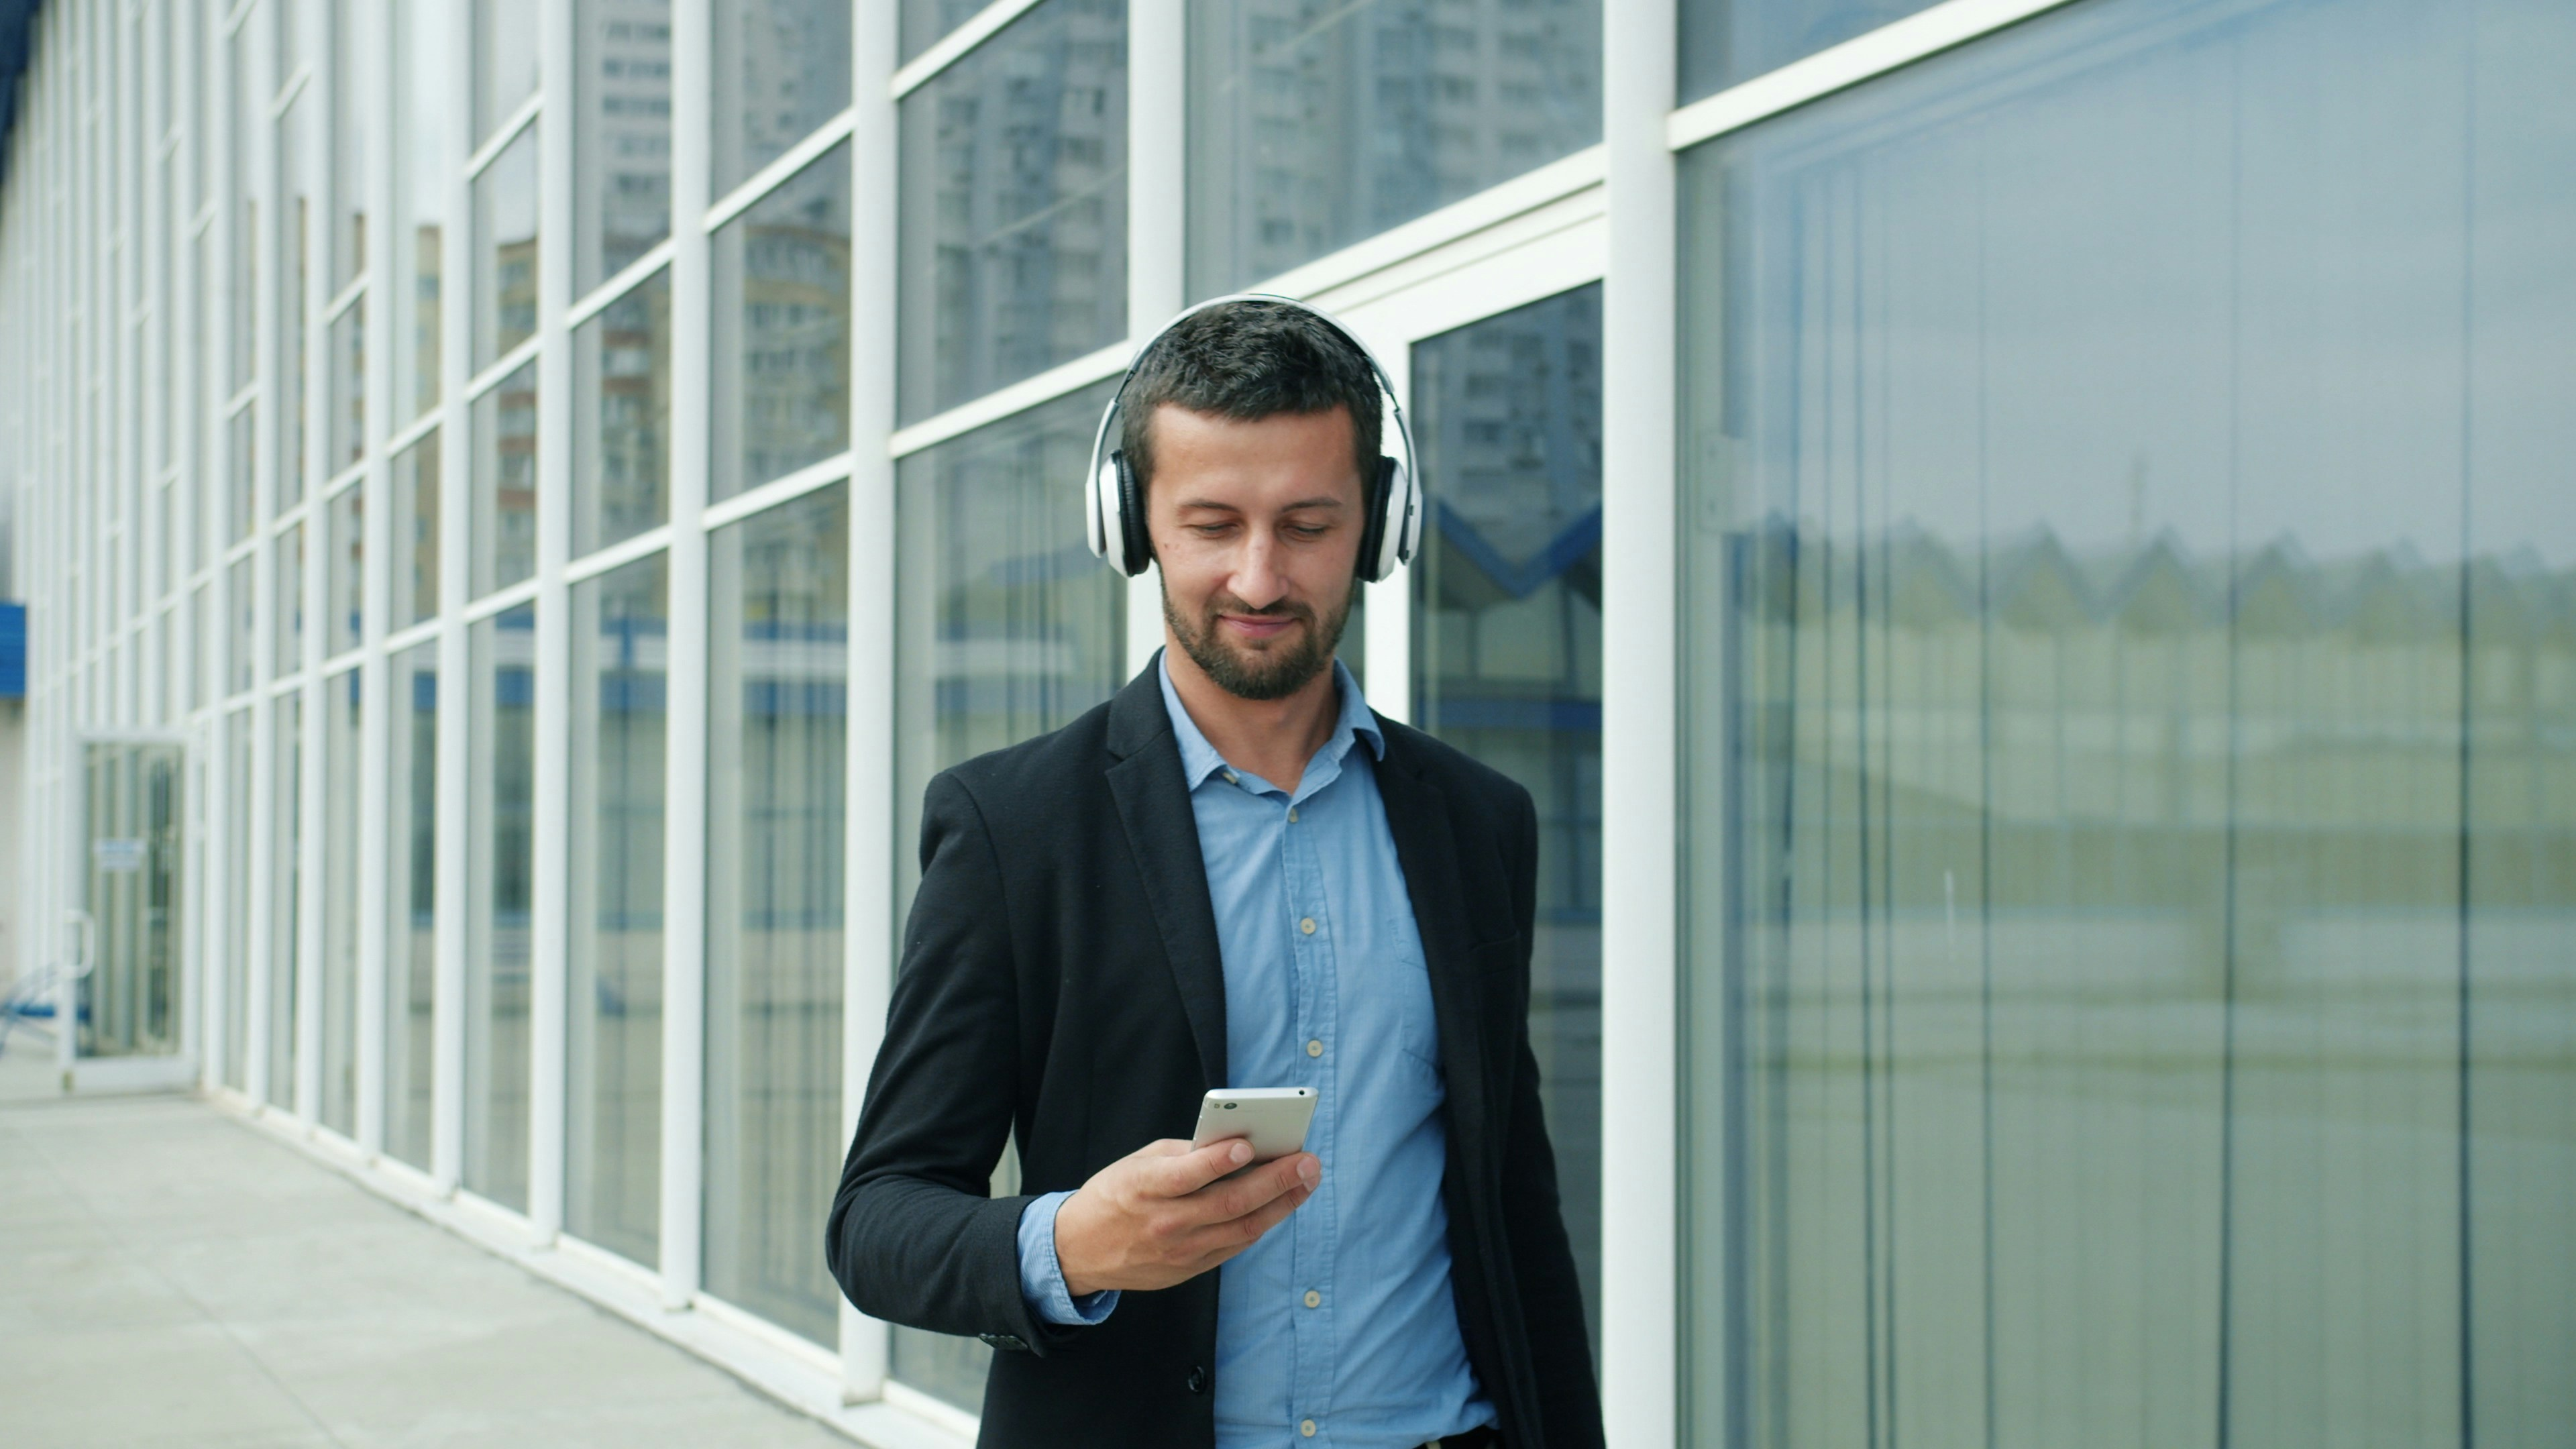
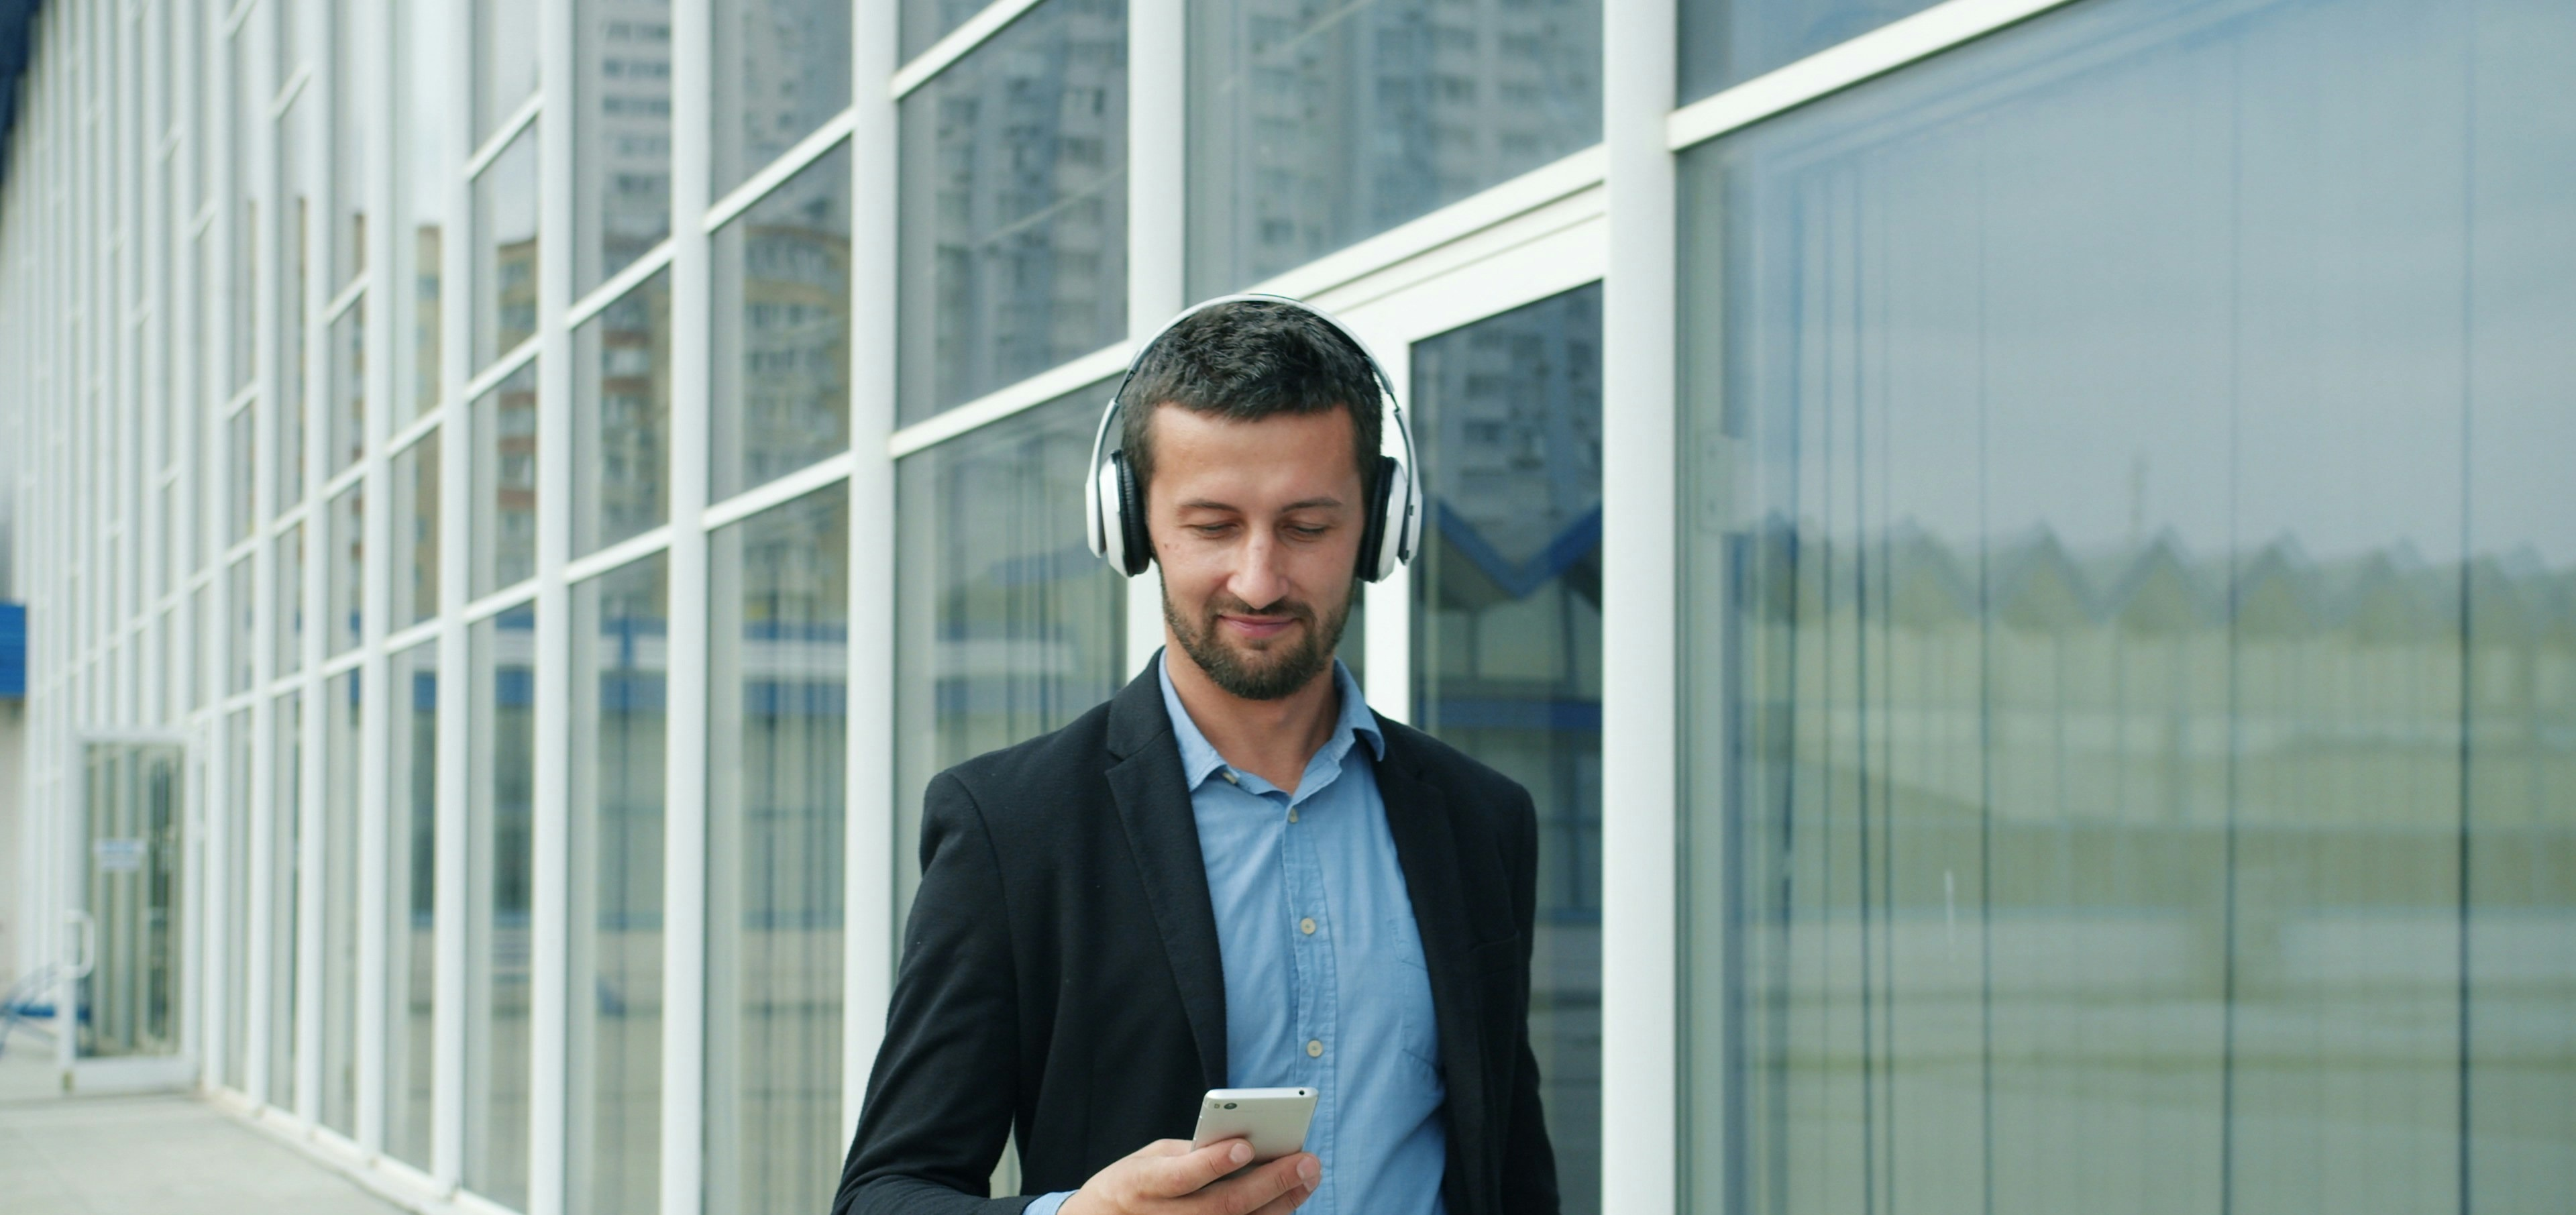
mobile app page pc version almost finished

diff --git a/css/pages/mobile_applications.css b/css/pages/mobile_applications.css
@@ -118,15 +118,19 @@ p.mobile-app-title-circle {
 
 }
 
+.mobile-app-import-part{
+  margin-bottom: 80px;
+}
+
 .mobile-app-perm-part {
+  margin-top: 80px;
+  margin-bottom: 80px;
   padding-top: 80px;
   padding-bottom: 80px;
-  margin: 0 auto;
 }
 
 .mobile-app-perm-headphoneman-part {
   position: relative; 
-  width: 100%;
   display: flex;
   justify-content: center;
 }
@@ -138,6 +142,7 @@ p.mobile-app-title-circle {
   display: block;
   position: relative;
   z-index: 1;
+  border-radius: 10px;
 }
 
 .mobile-app-perm-headphoneman-part img[alt*="permissions"] {
@@ -146,20 +151,64 @@ p.mobile-app-title-circle {
   top: 15%;
   left: -5%; 
   z-index: 3;
-  filter: drop-shadow(0px 10px 30px rgba(0, 0, 0, 0.08));
 }
 
 
 .mobile-app-perm-text-part {
   position: absolute;
-  right: 0; 
-  bottom: -10%;
-  background: rgba(255, 255, 255, 0.85);
-  backdrop-filter: blur(20px); 
-  -webkit-backdrop-filter: blur(20px);
-  border: 1px solid rgba(255, 255, 255, 0.4);
-  border-radius: 16px;
-  padding: 32px;
+  right: -11%; 
+  bottom: -26%;
+  background: rgba(255, 255, 255, 0.6);
+  backdrop-filter: blur(18.9px); 
+  border-radius: 10px;
+  padding: 25px;
   z-index: 5;
-  box-shadow: 0px 20px 40px rgba(43, 29, 13, 0.05);
+  box-shadow: 0px 4px 20px 0px rgba(217, 217, 217, 0.25);
+}
+
+.mobile-app-album-part{
+  margin-top: 160px;
+  margin-bottom: 80px;
+}
+
+.mobile-app-manage-part{
+  margin-bottom: 160px;
+}
+
+.feature-benefit-text{
+  font-family: "SOra", sans-serif;
+  font-weight: 800;
+  font-size: 20px;
+}
+
+.feature-benefit-text{
+  font-family: "SOra", sans-serif;
+  font-weight: 800;
+  font-size: 18px;
+}
+
+.feature-benefits-strip{
+  max-width: 1080px !important;
+}
+
+.triple-true-title{
+  font-family: "Sora", sans-serif;
+  font-weight: 800;
+  font-size: 48px;
+}
+
+.feature-benefit-text-desc{
+  line-height:  1.4;
+}
+
+.mobile-app-import-option-part{
+  margin-bottom: 160px;
+}
+
+.mobile-app-copy-part{
+  margin-bottom: 160px;
+}
+
+.mobile-app-security-part{
+  margin-bottom: 160px;
 }

diff --git a/language/en_UK/mobile_applications.lang.php b/language/en_UK/mobile_applications.lang.php
@@ -9,31 +9,31 @@ $lang['mobile_applications_introduction_pt2'] = 'A free mobile application to ma
 $lang['mobile_applications_import_title'] = 'Import your photos and videos' ;
 $lang['mobile_applications_import_text'] = 'With the Piwigo mobile application, add photos to your photo library at any time from your mobile. Create new albums or add to your existing albums. Also import videos if you have this option on your gallery (compatible with the VideoJS plugin).' ;
 $lang['mobile_applications_follows_you_title'] = 'Your photo library follows you everywhere' ;
-$lang['mobile_applications_follows_you_texte'] = 'With the Piwigo mobile application, access your photo library at any time! No need to keep all your files on your phone: find all your albums, photos and videos from the mobile application.' ;
+$lang['mobile_applications_follows_you_text'] = 'With the Piwigo mobile application, access your photo library at any time! No need to keep all your files on your phone: find all your albums, photos and videos from the mobile application.' ;
 $lang['mobile_applications_albums_title'] = 'Albums always well classified' ;
-$lang['mobile_applications_albums_texte'] = 'From the Piwigo mobile application, you have full control over your albums. You can create them, modify them, rename them as you see fit. You can also define the parameters of each album: name, description, thumbnail image ...' ;
+$lang['mobile_applications_albums_text'] = 'From the Piwigo mobile application, you have full control over your albums. You can create them, modify them, rename them as you see fit. You can also define the parameters of each album: name, description, thumbnail image ...' ;
 $lang['mobile_applications_sort_photos_title'] = 'Finely manage your photos' ;
-$lang['mobile_applications_sort_photos_texte'] = 'You have access to all the details of your photos from the Piwigo mobile application, and you can modify them: title, description, tags, author ... You can also classify your photos, download them to your mobile, or delete them.';
+$lang['mobile_applications_sort_photos_text'] = 'You have access to all the details of your photos from the Piwigo mobile application, and you can modify them: title, description, tags, author ... You can also classify your photos, download them to your mobile, or delete them.';
 $lang['mobile_applications_import_options_title'] = 'Import options for your photos' ;
 $lang['mobile_applications_size_quality_title'] = 'Size and quality';
-$lang['mobile_applications_size_quality_texte'] = 'Change the size of your photos and the quality you want to keep on the server.';
+$lang['mobile_applications_size_quality_text'] = 'Change the size of your photos and the quality you want to keep on the server.';
 $lang['mobile_applications_metadata_title'] = 'Metadata';
-$lang['mobile_applications_metadata_texte'] = 'Access all the metadata of your files and modify them if necessary: title, author, date, confidentiality, tags, description ...';
+$lang['mobile_applications_metadata_text'] = 'Access all the metadata of your files and modify them if necessary: title, author, date, confidentiality, tags, description ...';
 $lang['mobile_applications_geolocalisation_title'] = 'Geotagging your photos';
-$lang['mobile_applications_geolocalisation_texte'] = 'Automatically retrieve the GPS coordinates of your photos to be able to view them on a map from your gallery.';
+$lang['mobile_applications_geolocalisation_text'] = 'Automatically retrieve the GPS coordinates of your photos to be able to view them on a map from your gallery.';
 $lang['mobile_applications_invite_title'] = 'Invite your relatives and colleagues';
-$lang['mobile_applications_invite_texte'] = 'The Piwigo mobile application is compatible with the Community plugin, which allows non-administrator users to also send photos to Piwigo.';
+$lang['mobile_applications_invite_text'] = 'The Piwigo mobile application is compatible with the Community plugin, which allows non-administrator users to also send photos to Piwigo.';
 $lang['mobile_applications_copy_move_title'] = 'Copy and move your photos and videos';
-$lang['mobile_applications_copy_move_texte'] = 'With the Piwigo mobile app for iOS, you can easily organize and reorganize your photos, changing which album they are in, or copying them from one album to another.';
+$lang['mobile_applications_copy_move_text'] = 'With the Piwigo mobile app for iOS, you can easily organize and reorganize your photos, changing which album they are in, or copying them from one album to another.';
 $lang['mobile_applications_share_title'] = 'Share your photos and videos';
-$lang['mobile_applications_share_texte'] = 'Share your photos and videos to your contacts directly from the Piwigo mobile application, thanks to the integrated sharing menu.';
+$lang['mobile_applications_share_text'] = 'Share your photos and videos to your contacts directly from the Piwigo mobile application, thanks to the integrated sharing menu.';
 $lang['mobile_applications_security_title'] = 'Security and confidentiality';
 $lang['mobile_applications_user_rights_title'] = 'User rights';
-$lang['mobile_applications_user_rights_texte'] = 'The authorizations configured in Piwigo are also valid on the mobile application: each user can only see the albums to which they are entitled.';
+$lang['mobile_applications_user_rights_text'] = 'The authorizations configured in Piwigo are also valid on the mobile application: each user can only see the albums to which they are entitled.';
 $lang['mobile_applications_confidentiality_title'] = 'Confidentiality';
-$lang['mobile_applications_confidentiality_texte'] = 'As always with Piwigo, your data only belongs to you. No tracking, no sharing of your personal data, no algorithm that will look at your files.';
+$lang['mobile_applications_confidentiality_text'] = 'As always with Piwigo, your data only belongs to you. No tracking, no sharing of your personal data, no algorithm that will look at your files.';
 $lang['mobile_applications_control_title'] = 'Data control';
-$lang['mobile_applications_control_texte'] = 'Determine whether or not you want to pass the metadata of your photos when you share them from the app.';
+$lang['mobile_applications_control_text'] = 'Determine whether or not you want to pass the metadata of your photos when you share them from the app.';
 $lang['mobile_applications_download'] = 'Download the Piwigo app';
 $lang['mobile_applications_download_app_store1'] = 'Download for Android';
 $lang['mobile_applications_download_play_store1'] = 'Download for IOS';